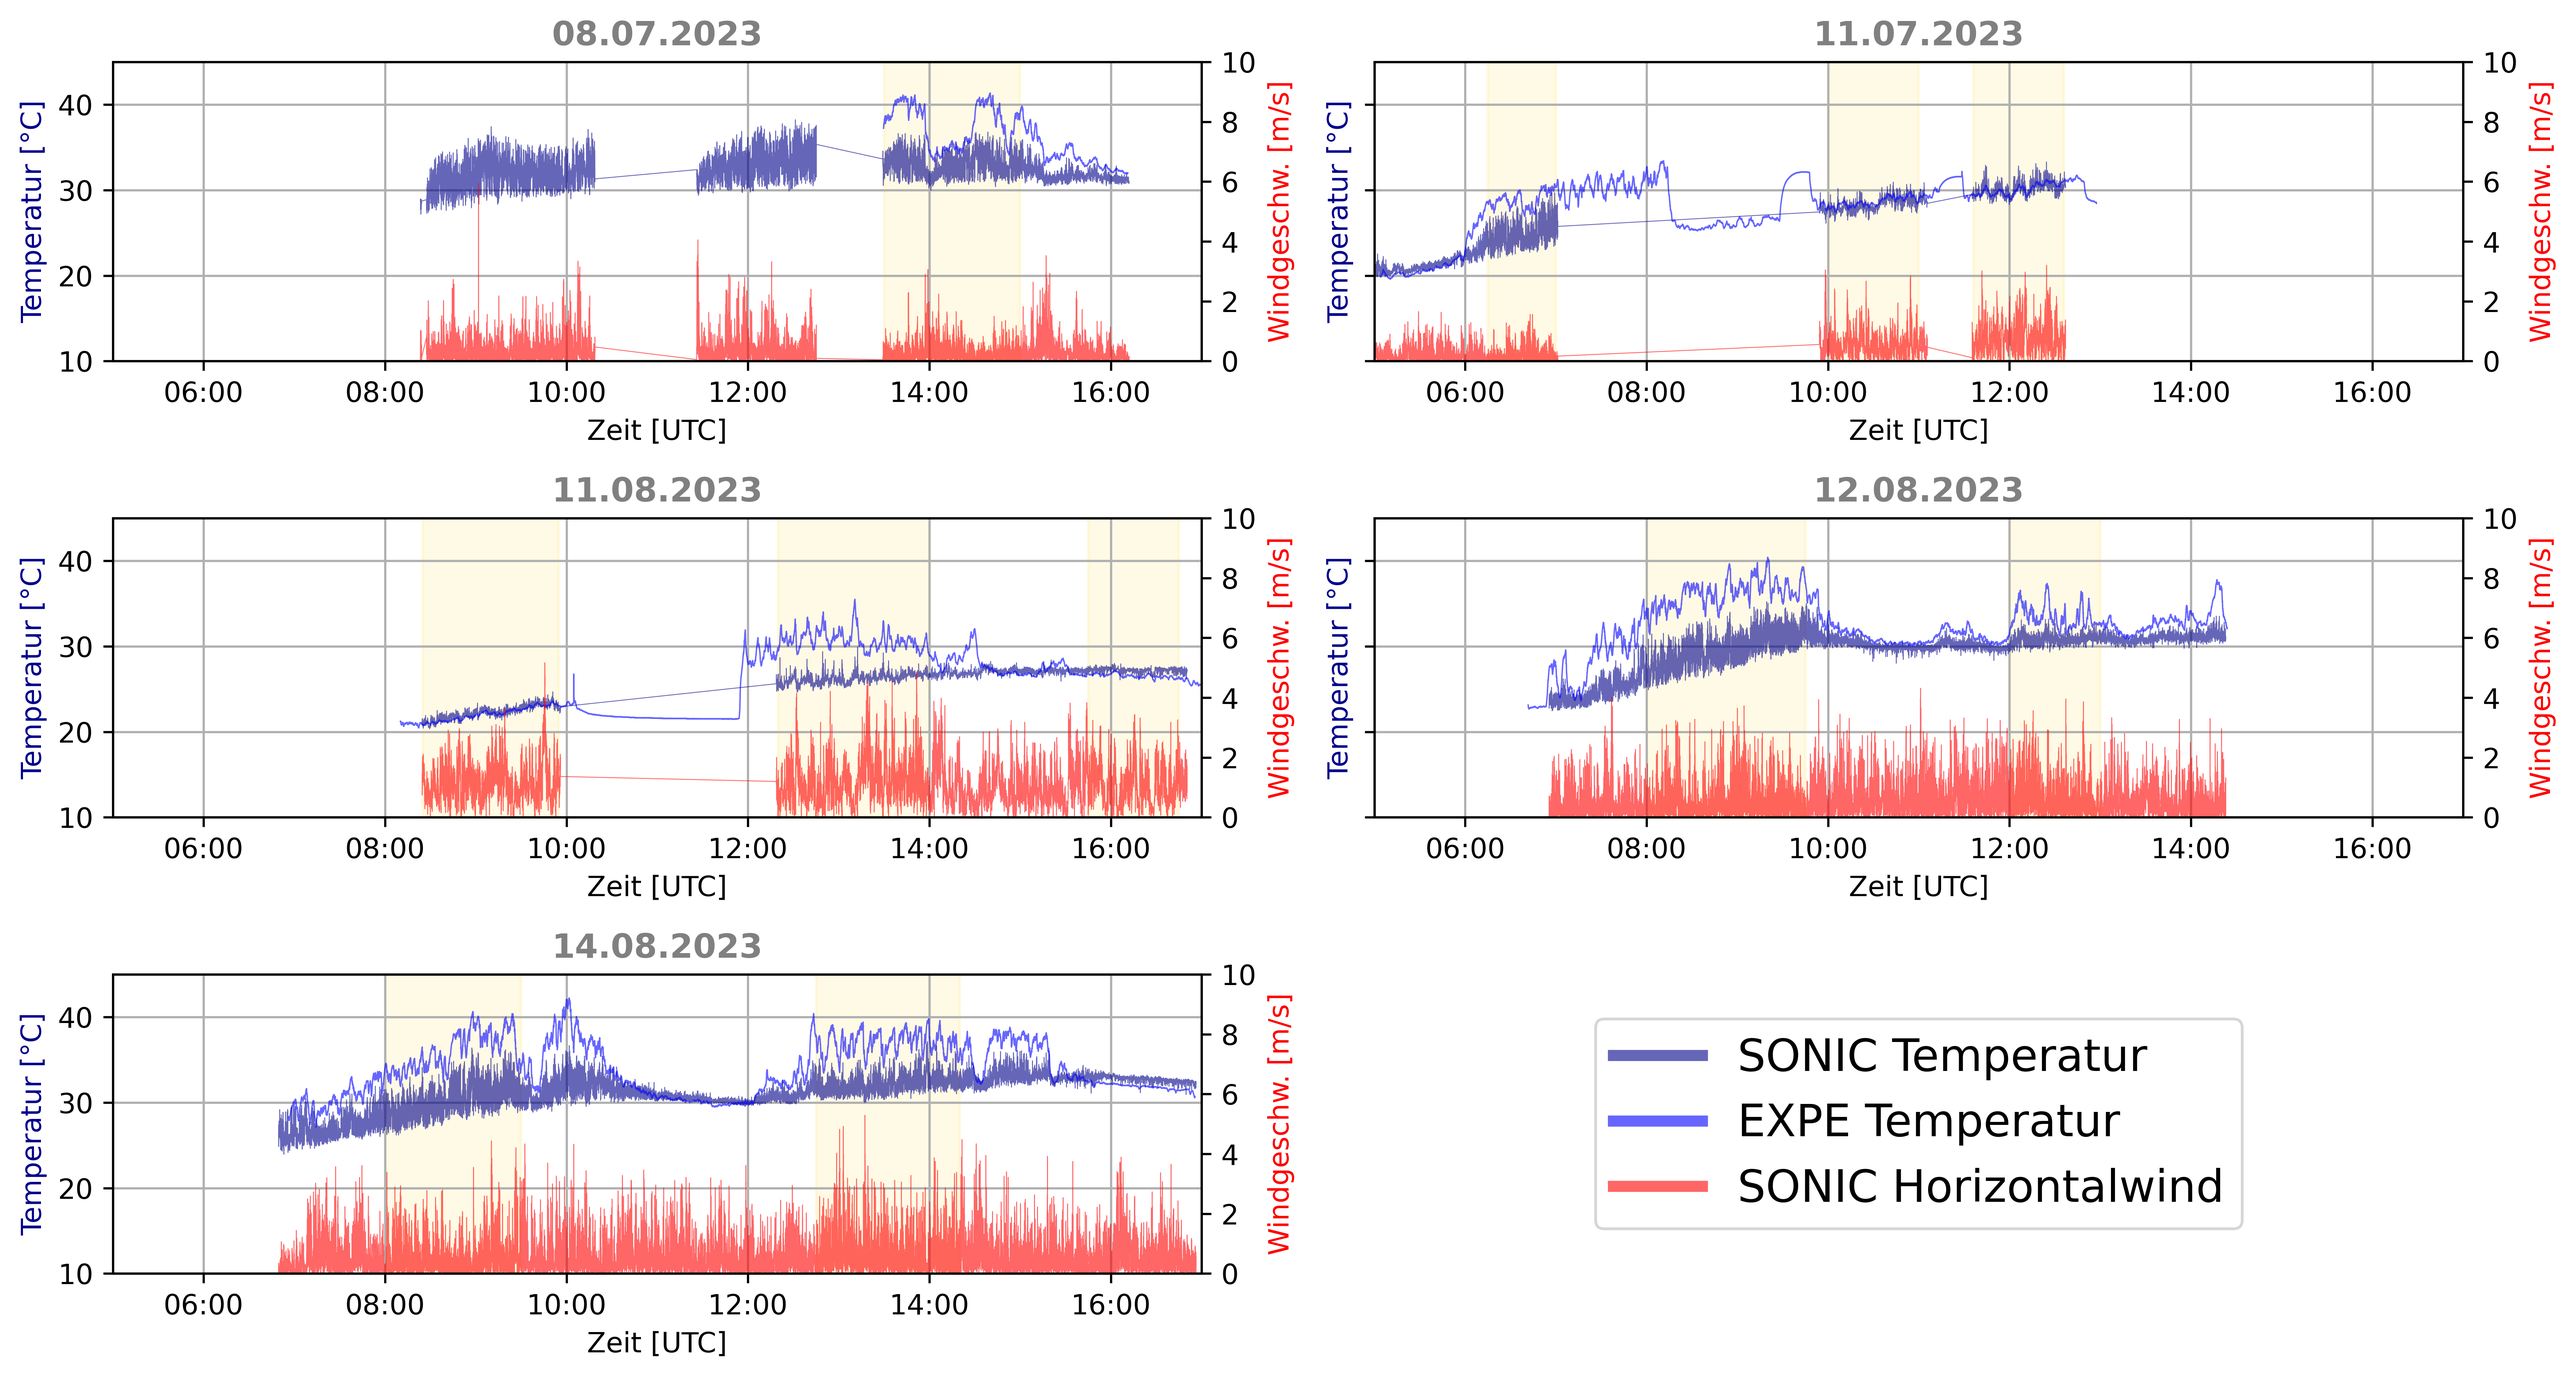
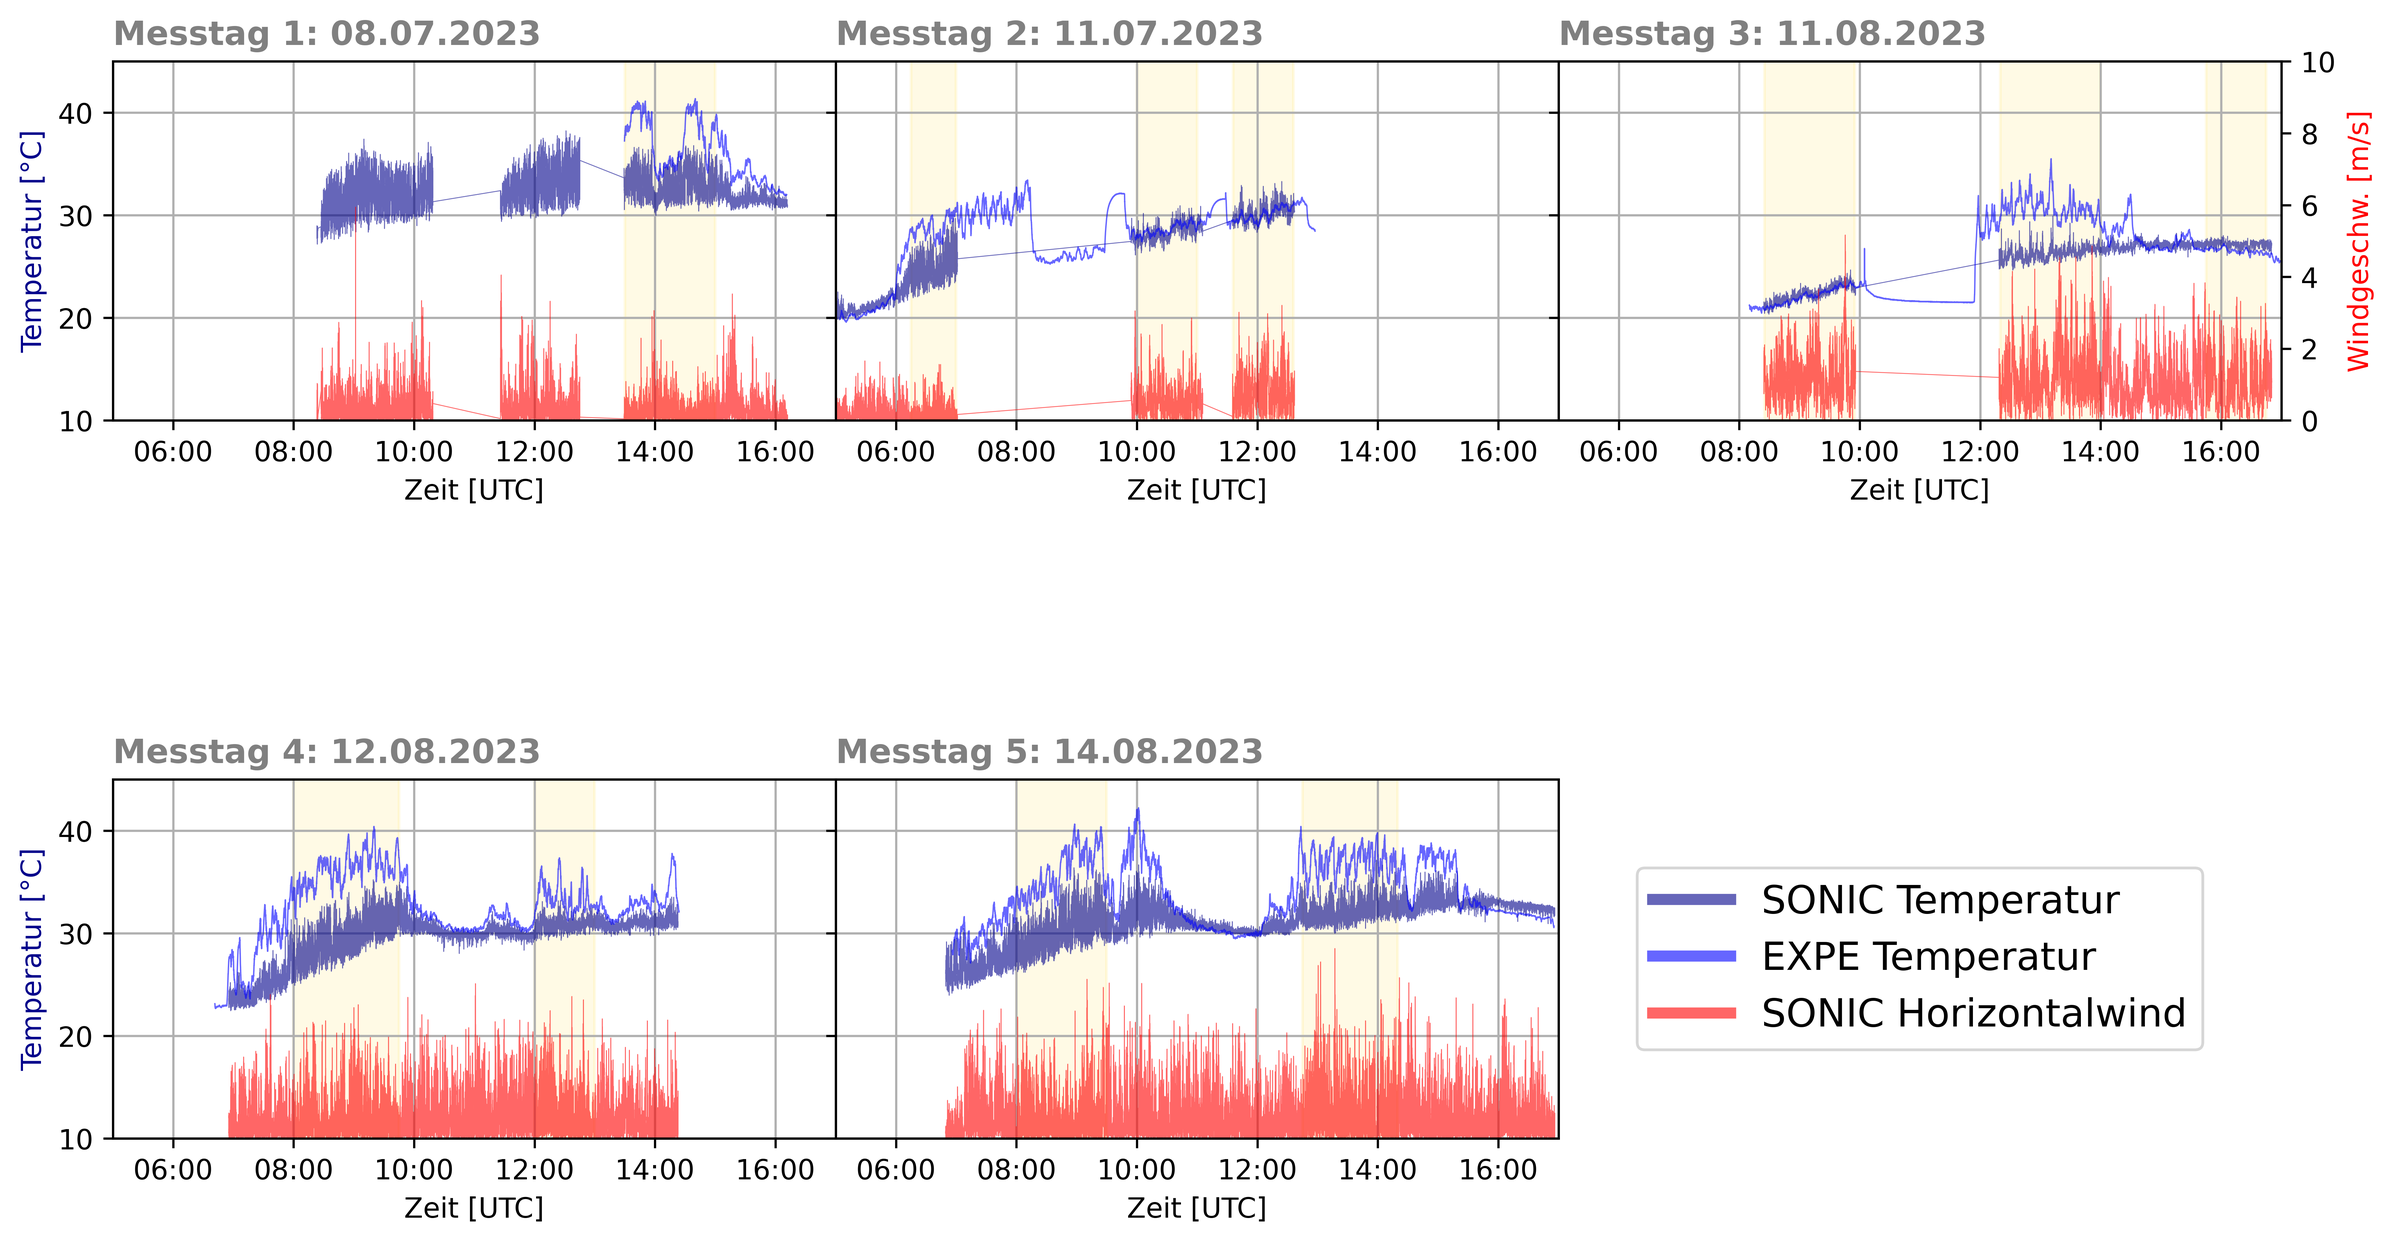
📈 Update layout for slides

diff --git a/src/Python_3_11_3/plot.py b/src/Python_3_11_3/plot.py
@@ -284,11 +284,13 @@ def plot_win_influence(x: np.ndarray, y: np.ndarray, title: str, fn: str) -> Non
 def plot_temporal_coverage() -> None:
     """Plots the temporal coverage of the experiments."""
     
-    _, ax = plt.subplots(nrows=3, ncols=2, figsize=(13,7), sharex=False, sharey=True)
-        
+    _, ax = plt.subplots(nrows=2, ncols=3, figsize=(14,7), 
+                         sharex=False, sharey=True, 
+                         gridspec_kw = {'wspace':0, 'hspace':1})
+    
     for i in range(len(unique_dates)):
-        row_i = i // 2
-        col_i = i % 2
+        row_i = i // 3
+        col_i = i % 3
         
         # get data
         period = f"Day{i+1}"
@@ -327,15 +329,21 @@ def plot_temporal_coverage() -> None:
                                          color='gold', label=f"PUO {j+1}: {hours} h")
         
         # plot config
-        ax[row_i, col_i].set_title(f"{unique_dates[i]}", **title_kwargs)
-        ax[row_i, col_i].set_ylabel("Temperatur [°C]", color="darkblue")
+        ax[row_i, col_i].set_title(f"Messtag {i+1}: {unique_dates[i]}", loc="left", **title_kwargs)
+        ax[row_i, 0].set_ylabel("Temperatur [°C]", color="darkblue")
         ax[row_i, col_i].set_xlabel("Zeit [UTC]")
-        ax2.set_ylabel("Windgeschw. [m/s]", color="r")
         ax[row_i, col_i].set_ylim((10,45))
-        ax2.set_ylim((0, 10))
         ax[row_i, col_i].xaxis.set_major_formatter(DateFormatter('%H:%M'))
         ax[row_i, col_i].grid(True)
-
+        
+        ax2.set_ylim((0, 10))
+        if col_i == 2:
+            ax2.set_ylabel("Windgeschw. [m/s]", color="r")
+        else:
+            pass
+        if col_i != 2:
+            ax2.set_yticks([])
+        
         date = unique_dates[i]
         da, mo, ye = date.split(".")
         ax[row_i, col_i].set_xlim((
@@ -345,11 +353,11 @@ def plot_temporal_coverage() -> None:
         
         lns = lns1+lns2+lns3
         labs = [l.get_label() for l in lns]
-        leg = ax[2, 1].legend(lns, labs, loc="center", fontsize="16")
+        leg = ax[1, 2].legend(lns, labs, loc="center", fontsize="14")
         for line in leg.get_lines():
             line.set_linewidth(4.0)
             
-        ax[2, 1].axis('off')
+        ax[1, 2].axis('off')
         
     plt.tight_layout()
     plt.savefig("plots/temporal_coverage/temporal_coverage.png", 

diff --git a/src/Python_3_11_3/main_plotting.py b/src/Python_3_11_3/main_plotting.py
@@ -11,10 +11,10 @@ from plot import plot_ts, plot_spectrum, plot_spectrum_comp, \
 
 # plotting agenda
 PLOT_TEMPORAL_COVERAGE          = True
-PLOT_TIME_SERIES                = True
-PLOT_SPECTRUM_DATA              = True
-PLOT_WINDOW_FUNCTION_INFLUENCE  = True
-PLOT_AVERAGING                  = True
+PLOT_TIME_SERIES                = False
+PLOT_SPECTRUM_DATA              = False
+PLOT_WINDOW_FUNCTION_INFLUENCE  = False
+PLOT_AVERAGING                  = False
 
 TEST_MODE                       = False
 all_puos = ["PUO_01"] if TEST_MODE else all_puos
